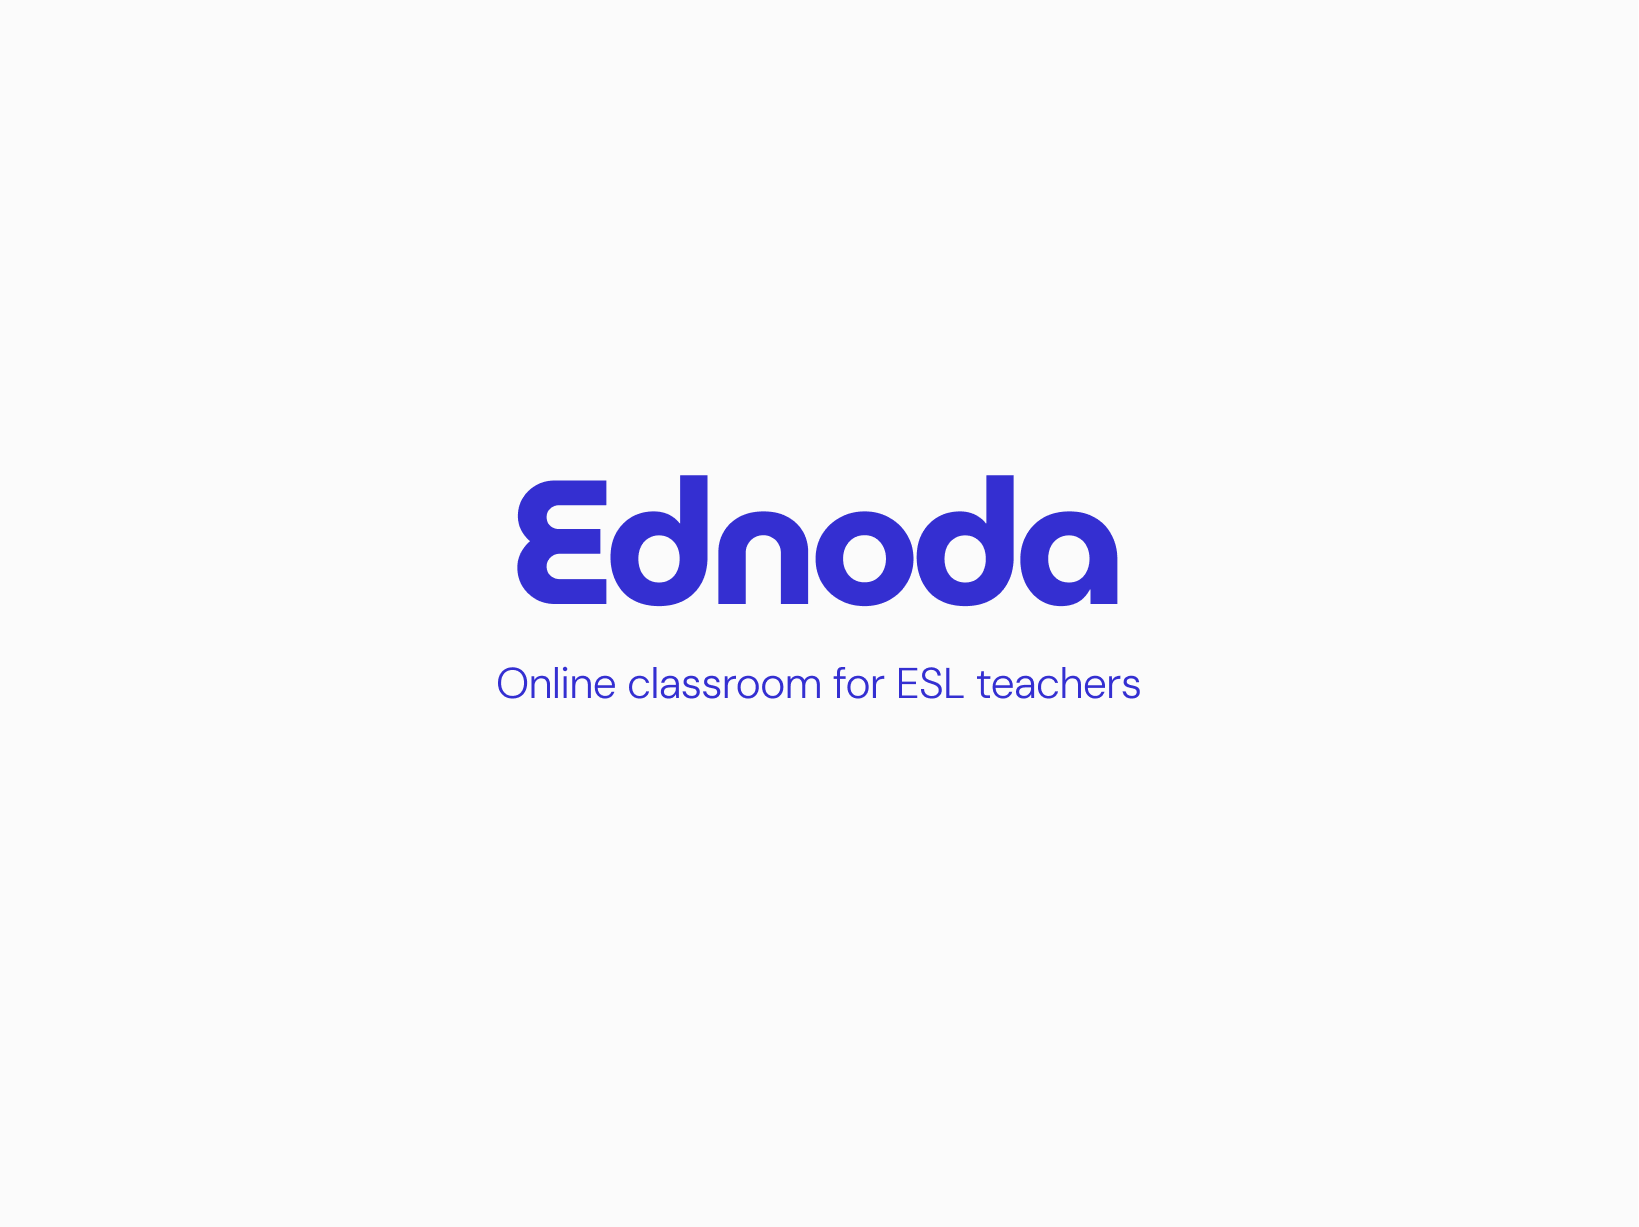
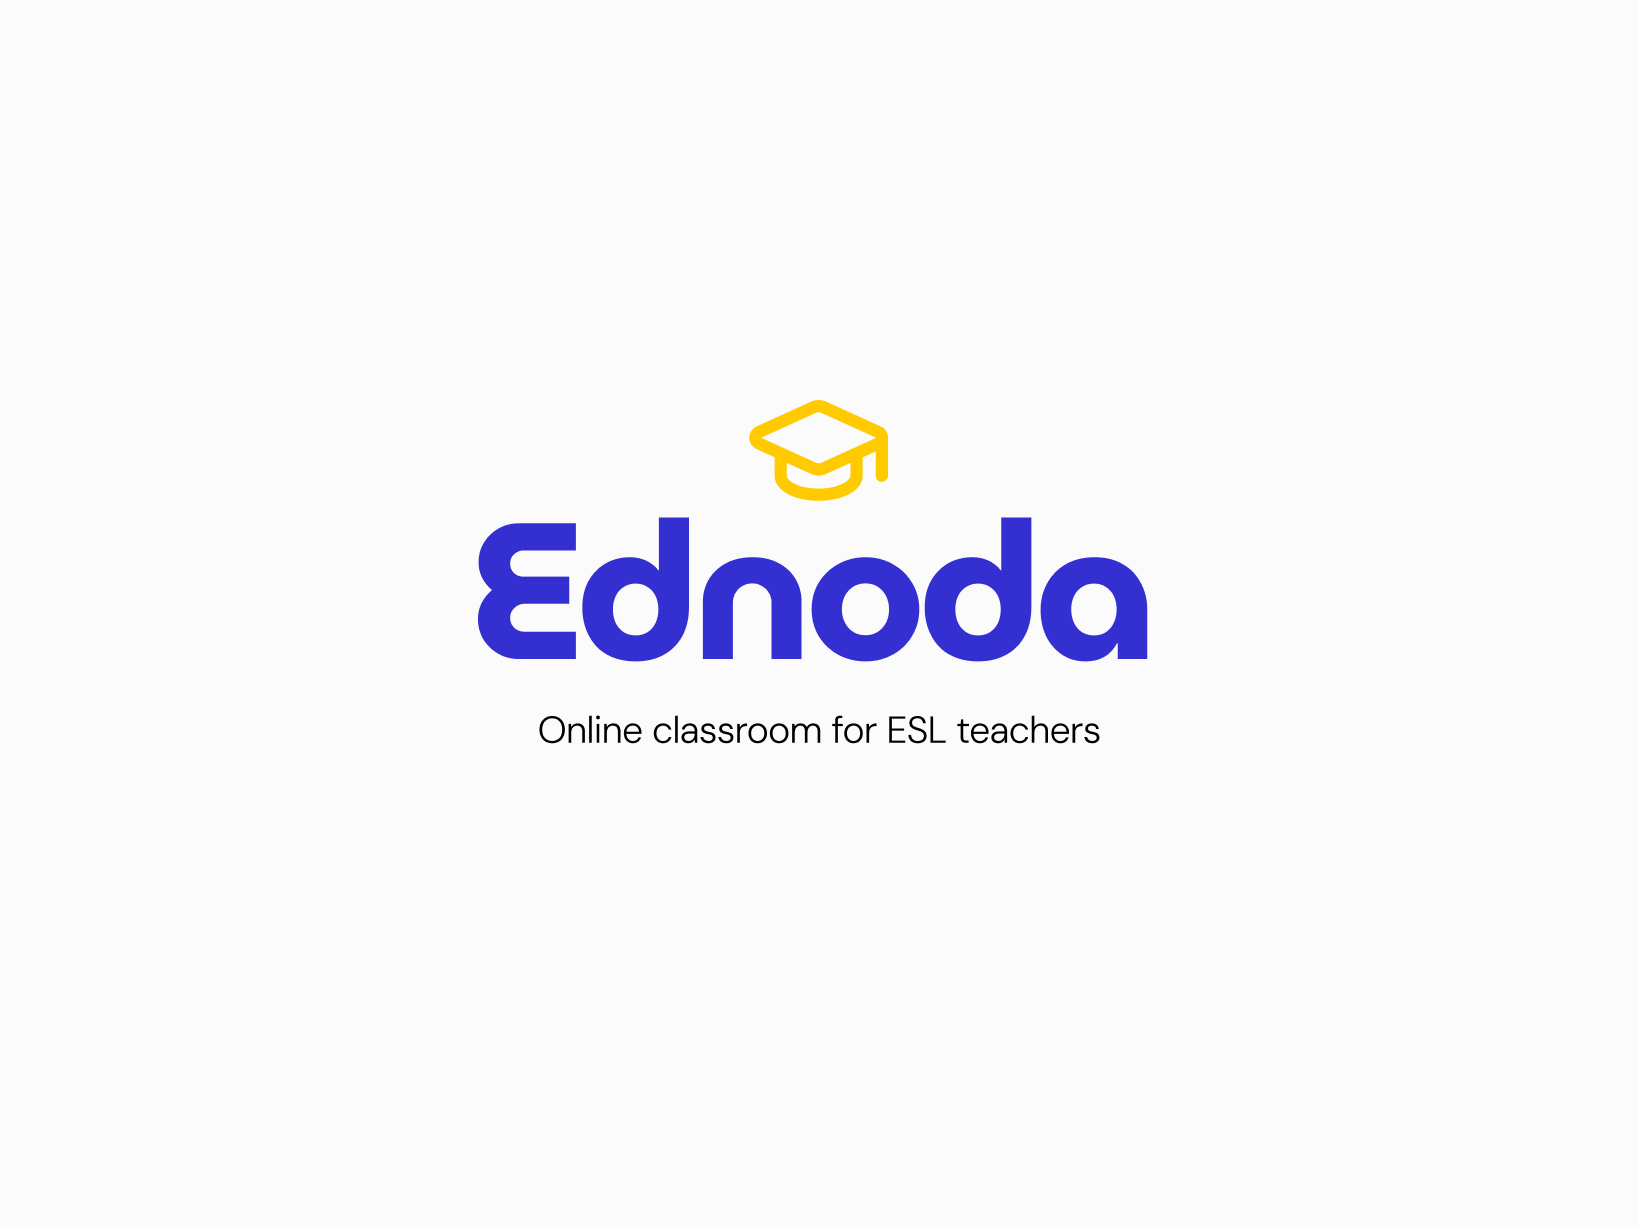
hihi

Changed region(s): [[0.28, 0.3097, 0.7157, 0.6194]]

diff --git a/app/page.tsx b/app/page.tsx
@@ -122,7 +122,7 @@ export default function Home2() {
                   <ProjectThumbnailNew isLink="video-link" link="cardio" type="UX design, POC" name="card.io: Perfect cardio session starts with a perfect playlist" desc="Designed a Spotify feature that guides runners in creating personalized cardio playlists, helping them feel confident and in control." imageSrc="/cardio video.mp4" imageSrcPoster="/cardio-poster.png" target="_self"/>
               </SlideUp>
               <SlideUp>
-                  <ProjectThumbnailNew isLink="coming-soon" link="#" type="UX design, pro-bono" name="Ednoda: Simplify lesson planning for ESL teachers (coming soon)" desc="" imageSrc="/ednoda.png" imageSrcPoster=".png" target="_self"/>
+                  <ProjectThumbnailNew isLink="coming-soon" link="#" type="UX design, pro-bono" name="Ednoda: Simplify lesson planning for ESL teachers (coming soon)" desc="" imageSrc="/ednodall.png" imageSrcPoster=".png" target="_self"/>
               </SlideUp>
               {/* <SlideUp>
                   <ProjectThumbnailNew isLink="coming-soon" link="" type="UX research, 2026" name="Samsung Health's wearable experiences (In progress)" desc="Conducted research to inform future Samsung Health wearable experiences, including Galaxy Watch, Galaxy Ring, and the Samsung Health app." imageSrc="/shealth.png" imageSrcPoster="" target="_self"/>
